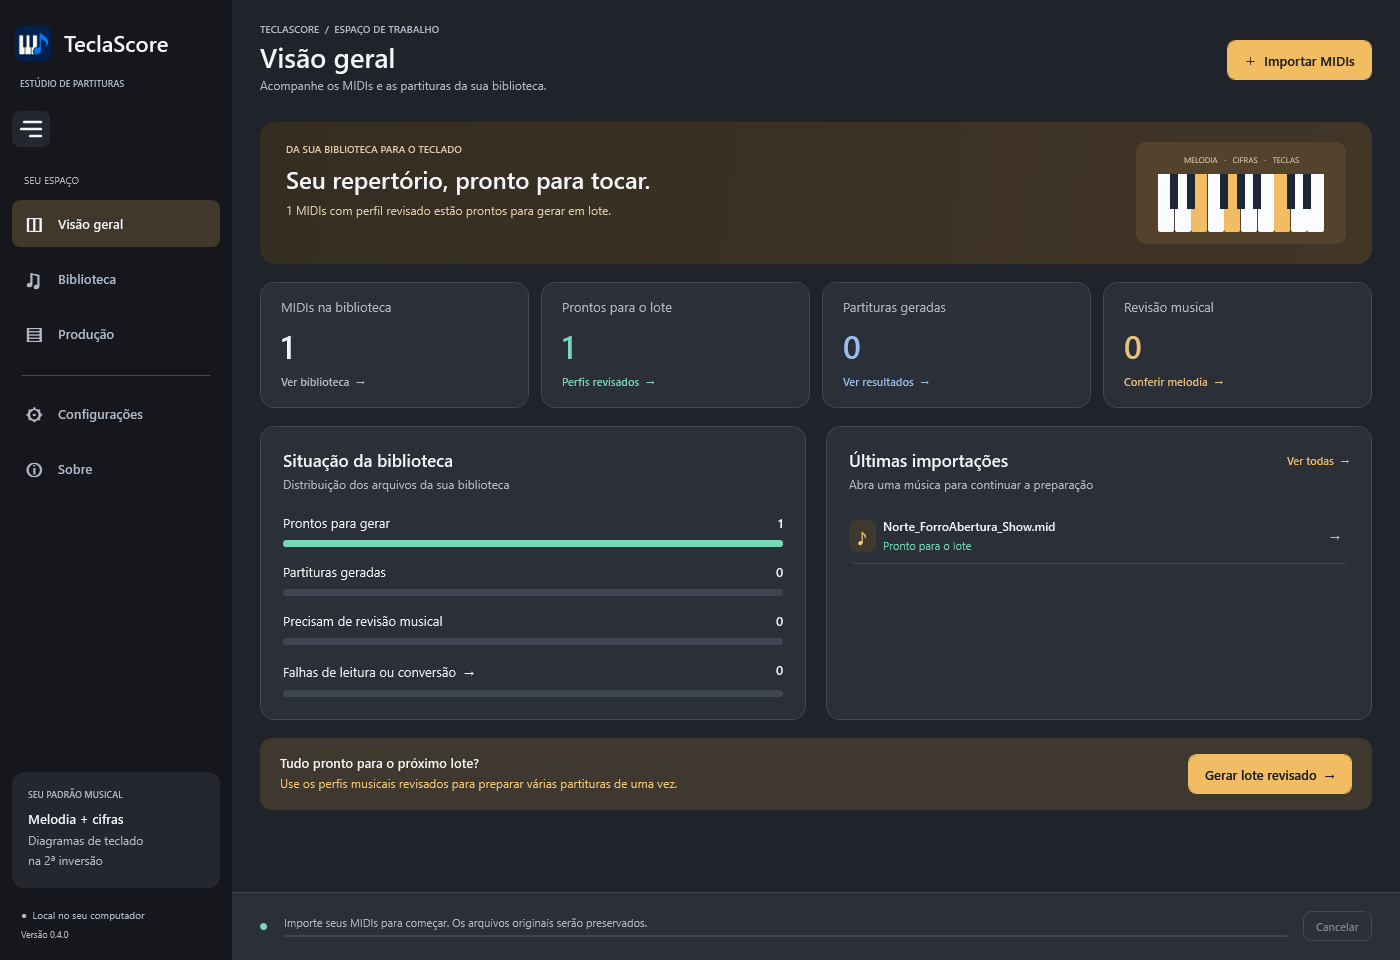
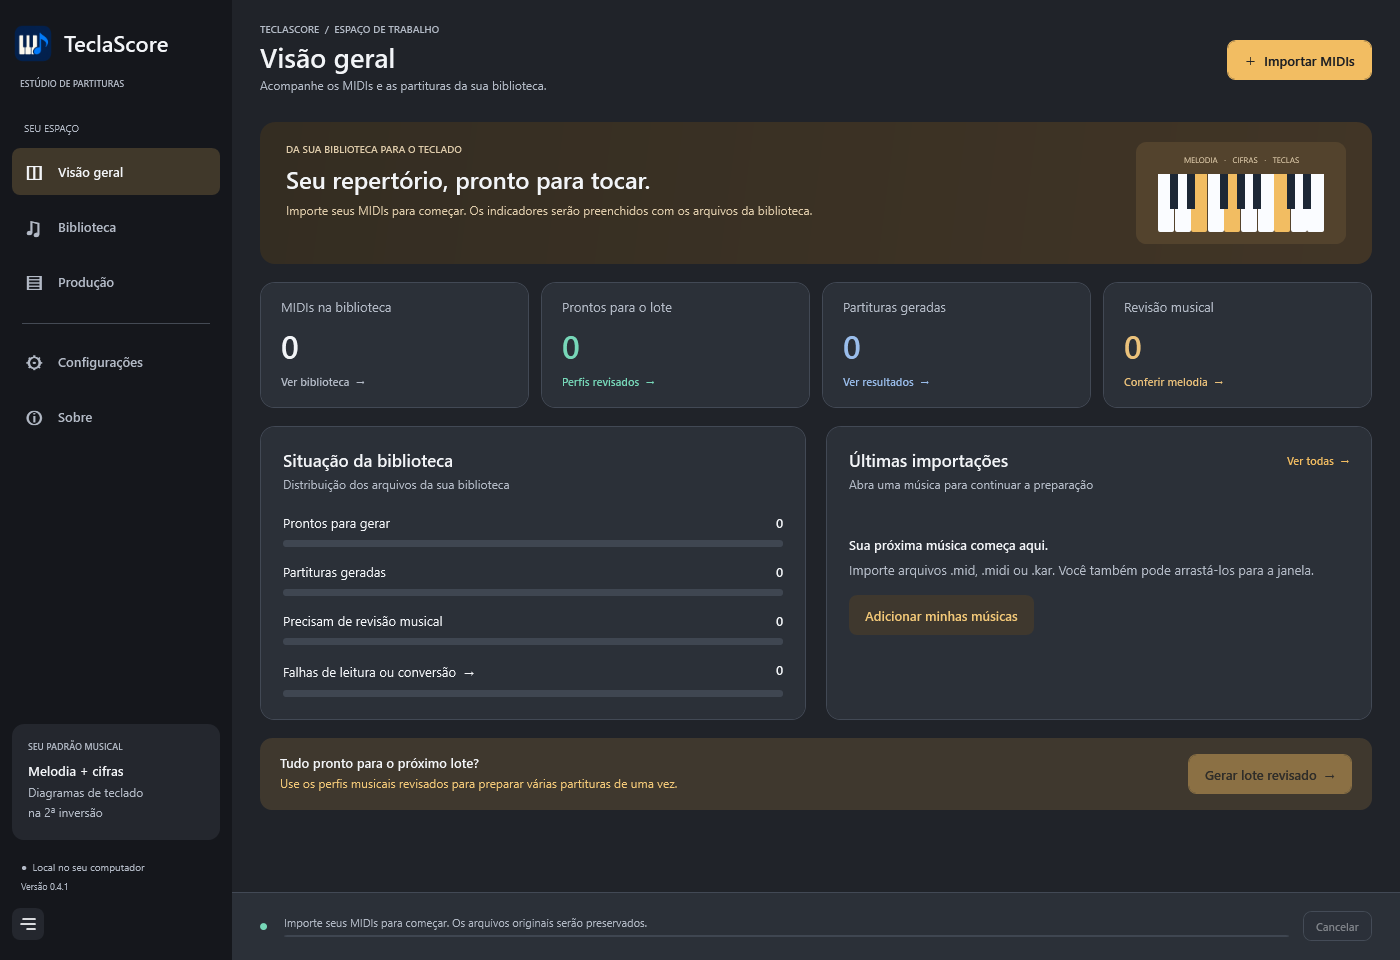
Move controle menor da barra lateral para o rodapé

diff --git a/src/Teclas.App/MainWindow.xaml b/src/Teclas.App/MainWindow.xaml
@@ -5,11 +5,8 @@
    <StackPanel>
     <StackPanel Orientation="Horizontal" HorizontalAlignment="{Binding SidebarContentAlignment}"><Image Source="Assets/teclas.png" Width="42" Height="42" RenderOptions.BitmapScalingMode="HighQuality" AutomationProperties.Name="TeclaScore"/><TextBlock Text="{Binding AppDisplayName}" Foreground="{DynamicResource SidebarInk}" FontSize="22" FontWeight="SemiBold" VerticalAlignment="Center" Margin="10,0,0,0" Visibility="{Binding ExpandedSidebarVisible}"/></StackPanel>
     <TextBlock Text="ESTÚDIO DE PARTITURAS" Foreground="{DynamicResource SidebarMuted}" FontSize="9" FontWeight="SemiBold" Margin="8,13,0,0" Visibility="{Binding ExpandedSidebarVisible}"/>
-    <Button x:Name="SidebarToggle" Click="ToggleSidebarClick" ToolTip="{Binding SidebarToggleLabel}" AutomationProperties.Name="{Binding SidebarToggleLabel}" Style="{StaticResource NavButton}" Foreground="{DynamicResource SidebarInk}" Background="{DynamicResource SidebarPanel}" HorizontalAlignment="{Binding SidebarContentAlignment}" HorizontalContentAlignment="Center" Padding="0" Width="38" Height="36" MinHeight="36" Margin="0,22,0,26">
-     <Path Width="24" Height="20" Data="M 5,3 L 22,3 M 2,10 L 22,10 M 11,17 L 22,17" Stroke="{Binding Foreground,RelativeSource={RelativeSource AncestorType={x:Type Button}}}" StrokeThickness="2.5" StrokeStartLineCap="Round" StrokeEndLineCap="Round" RenderTransformOrigin="0.5,0.5"><Path.RenderTransform><ScaleTransform ScaleX="{Binding SidebarToggleScaleX}"/></Path.RenderTransform></Path>
-    </Button>
    </StackPanel>
-   <StackPanel x:Name="SidebarMenu" Grid.Row="1"><TextBlock Text="SEU ESPAÇO" Foreground="{DynamicResource SidebarMuted}" FontSize="10" Margin="12,0,0,14" Visibility="{Binding ExpandedSidebarVisible}"/>
+   <StackPanel x:Name="SidebarMenu" Grid.Row="1" Margin="0,32,0,0"><TextBlock Text="SEU ESPAÇO" Foreground="{DynamicResource SidebarMuted}" FontSize="10" Margin="12,0,0,14" Visibility="{Binding ExpandedSidebarVisible}"/>
     <Button Tag="dashboard" Click="NavigationClick" ToolTip="Visão geral" AutomationProperties.Name="Visão geral" Padding="10,10" HorizontalContentAlignment="{Binding SidebarContentAlignment}">
      <Button.Style><Style TargetType="Button" BasedOn="{StaticResource NavButton}"><Style.Triggers><DataTrigger Binding="{Binding CurrentPage}" Value="dashboard"><Setter Property="Background" Value="{DynamicResource SidebarActive}"/><Setter Property="Foreground" Value="{DynamicResource SidebarInk}"/></DataTrigger></Style.Triggers></Style></Button.Style>
      <StackPanel Orientation="Horizontal"><TextBlock Text="◫" FontFamily="Segoe UI Symbol" FontSize="20" Width="24" TextAlignment="Center" VerticalAlignment="Center"/><TextBlock Text="Visão geral" VerticalAlignment="Center" Margin="12,0,0,0" Visibility="{Binding ExpandedSidebarVisible}"/></StackPanel>
@@ -32,7 +29,12 @@
      <StackPanel Orientation="Horizontal"><TextBlock Text="ⓘ" FontFamily="Segoe UI Symbol" FontSize="20" Width="24" TextAlignment="Center" VerticalAlignment="Center"/><TextBlock Text="Sobre" VerticalAlignment="Center" Margin="12,0,0,0" Visibility="{Binding ExpandedSidebarVisible}"/></StackPanel>
     </Button>
    </StackPanel>
-   <StackPanel Grid.Row="2" Visibility="{Binding ExpandedSidebarVisible}"><Border Background="{DynamicResource SidebarPanel}" CornerRadius="12" Padding="16"><StackPanel><TextBlock Text="SEU PADRÃO MUSICAL" Foreground="{DynamicResource SidebarMuted}" FontSize="9" FontWeight="SemiBold"/><TextBlock Text="Melodia + cifras" Foreground="{DynamicResource SidebarInk}" FontWeight="SemiBold" Margin="0,10,0,5"/><TextBlock Text="Diagramas de teclado&#10;na 2ª inversão" Foreground="{DynamicResource SidebarMuted}" FontSize="12" LineHeight="20"/></StackPanel></Border><TextBlock Text="●  Local no seu computador" Foreground="{DynamicResource SidebarMuted}" FontSize="10" Margin="9,20,0,0"/><TextBlock Text="{Binding AppVersionLabel}" Foreground="{DynamicResource SidebarMuted}" FontSize="9" Margin="9,7,0,0"/></StackPanel>
+   <StackPanel Grid.Row="2">
+    <StackPanel Visibility="{Binding ExpandedSidebarVisible}"><Border Background="{DynamicResource SidebarPanel}" CornerRadius="12" Padding="16"><StackPanel><TextBlock Text="SEU PADRÃO MUSICAL" Foreground="{DynamicResource SidebarMuted}" FontSize="9" FontWeight="SemiBold"/><TextBlock Text="Melodia + cifras" Foreground="{DynamicResource SidebarInk}" FontWeight="SemiBold" Margin="0,10,0,5"/><TextBlock Text="Diagramas de teclado&#10;na 2ª inversão" Foreground="{DynamicResource SidebarMuted}" FontSize="12" LineHeight="20"/></StackPanel></Border><TextBlock Text="●  Local no seu computador" Foreground="{DynamicResource SidebarMuted}" FontSize="10" Margin="9,20,0,0"/><TextBlock Text="{Binding AppVersionLabel}" Foreground="{DynamicResource SidebarMuted}" FontSize="9" Margin="9,7,0,0"/></StackPanel>
+    <Button x:Name="SidebarToggle" Click="ToggleSidebarClick" ToolTip="{Binding SidebarToggleLabel}" AutomationProperties.Name="{Binding SidebarToggleLabel}" Style="{StaticResource NavButton}" Foreground="{DynamicResource SidebarInk}" Background="{DynamicResource SidebarPanel}" HorizontalAlignment="{Binding SidebarContentAlignment}" HorizontalContentAlignment="Center" Padding="0" Width="32" Height="32" MinHeight="32" Margin="0,16,0,0">
+     <Path Width="18" Height="16" Data="M 4,3 L 16,3 M 2,8 L 16,8 M 8,13 L 16,13" Stroke="{Binding Foreground,RelativeSource={RelativeSource AncestorType={x:Type Button}}}" StrokeThickness="1.8" StrokeStartLineCap="Round" StrokeEndLineCap="Round" RenderTransformOrigin="0.5,0.5"><Path.RenderTransform><ScaleTransform ScaleX="{Binding SidebarToggleScaleX}"/></Path.RenderTransform></Path>
+    </Button>
+   </StackPanel>
   </Grid></Border>
   <Grid Grid.Column="1"><Grid.RowDefinitions><RowDefinition Height="116"/><RowDefinition Height="*"/><RowDefinition Height="68"/></Grid.RowDefinitions>
    <Grid Margin="28,22,28,18"><Grid.ColumnDefinitions><ColumnDefinition Width="*"/><ColumnDefinition Width="Auto"/></Grid.ColumnDefinitions><StackPanel><TextBlock Text="TECLASCORE  /  ESPAÇO DE TRABALHO" Style="{StaticResource Eyebrow}"/><TextBlock Text="{Binding PageTitle}" FontSize="27" FontWeight="SemiBold" Margin="0,4,0,2"/><TextBlock Text="{Binding PageSubtitle}" Foreground="{DynamicResource Muted}" FontSize="12"/></StackPanel><Button Grid.Column="1" Content="＋  Importar MIDIs" Click="ImportClick" Style="{StaticResource PrimaryButton}" IsEnabled="{Binding IsIdle}" VerticalAlignment="Center" Margin="16,0,0,0"/></Grid>

diff --git a/README.md b/README.md
@@ -1,6 +1,6 @@
 # TeclaScore
 
-Versão 0.4.0 para Windows, em C# / WPF (.NET 10). Prepara partituras com uma pauta de melodia, cifras e diagramas de teclado na segunda inversão, salva arquivos MuseScore .mscz, reproduz a partitura e exporta PDF.
+Versão 0.4.1 para Windows, em C# / WPF (.NET 10). Prepara partituras com uma pauta de melodia, cifras e diagramas de teclado na segunda inversão, salva arquivos MuseScore .mscz, reproduz a partitura e exporta PDF.
 
 Repositório: [AdemirRJesusJR/teclascore](https://github.com/AdemirRJesusJR/teclascore).
 
@@ -12,7 +12,7 @@ Repositório: [AdemirRJesusJR/teclascore](https://github.com/AdemirRJesusJR/tecl
 4. Nos 18 MIDIs com perfil revisado, mantenha a revisão aprovada marcada. Use “Gerar lote revisado” para processar os que ainda não foram gerados.
 5. Em MIDIs novos, escolha a pista de melodia, clique em “Analisar acordes”, confira/edite as cifras e clique em “Gerar .mscz”.
 6. Na aba Prévia, clique em “Reproduzir” para ouvir, “Pausar” para continuar depois e “Parar” para voltar ao início. A barra de posição permite avançar ou voltar. “Salvar PDF” exporta todas as páginas.
-7. Use o botão no topo da barra lateral para alternar entre menus completos e somente ícones. Passe o mouse sobre um ícone para ver o nome do menu.
+7. Use o botão na parte inferior da barra lateral para alternar entre menus completos e somente ícones. Passe o mouse sobre um ícone para ver o nome do menu.
 8. Escolha seu tema em Configurações. Ao fechar e reabrir, o app restaura suas preferências e sua biblioteca.
 9. Para retirar um item da lista, selecione-o e clique em “Remover da biblioteca”. A última remoção pode ser desfeita enquanto o app estiver aberto. Seus arquivos MIDI e .mscz permanecem nas suas pastas.
 
@@ -78,6 +78,6 @@ Os testes de configurações e de painéis usam dados sintéticos. Os testes de 
 
 O script tools/prepare_engine.py regenera a cópia do motor a partir das ferramentas externas do projeto musical; seu uso é opcional. tools/qa_engine.py verifica os 18 perfis contra o lote original e exercita a conversão de um MIDI novo. A pasta engine já inclui o motor necessário para o aplicativo, sem exigir a regeneração. A ferramenta histórica engine/build_keyboard_diagrams.py é preservada como origem das funções vetoriais reutilizadas pelo motor; executá-la isoladamente requer a partitura piloto na pasta externa partituras.
 
-O número da versão é definido em `src/Teclas.App/Teclas.App.csproj` e aparece automaticamente na tela Sobre e nas propriedades do executável. As versões publicadas são marcadas com tags Git, como `v0.4.0`. O executável mantém o nome `Teclas.Partituras.exe` para preservar os caminhos já usados, e as preferências continuam na pasta `TeclasPartituras`.
+O número da versão é definido em `src/Teclas.App/Teclas.App.csproj` e aparece automaticamente na tela Sobre e nas propriedades do executável. As versões publicadas são marcadas com tags Git, como `v0.4.1`. O executável mantém o nome `Teclas.Partituras.exe` para preservar os caminhos já usados, e as preferências continuam na pasta `TeclasPartituras`.
 
-Veja VALIDACAO.txt para os testes realizados. Esta é a prévia 0.4.0, destinada a testes no computador do usuário.
+Veja VALIDACAO.txt para os testes realizados. Esta é a prévia 0.4.1, destinada a testes no computador do usuário.

diff --git a/CHANGELOG.md b/CHANGELOG.md
@@ -1,5 +1,9 @@
 # Histórico de versões
 
+## 0.4.1 — 12/10/2026
+
+- Botão de recolher/expandir menor e fixado na parte inferior da barra lateral, com o ícone espelhado para expandir.
+
 ## 0.4.0 — 12/10/2026
 
 - Reprodução da partitura no aplicativo, com pausa, parada e navegação pelo áudio.
